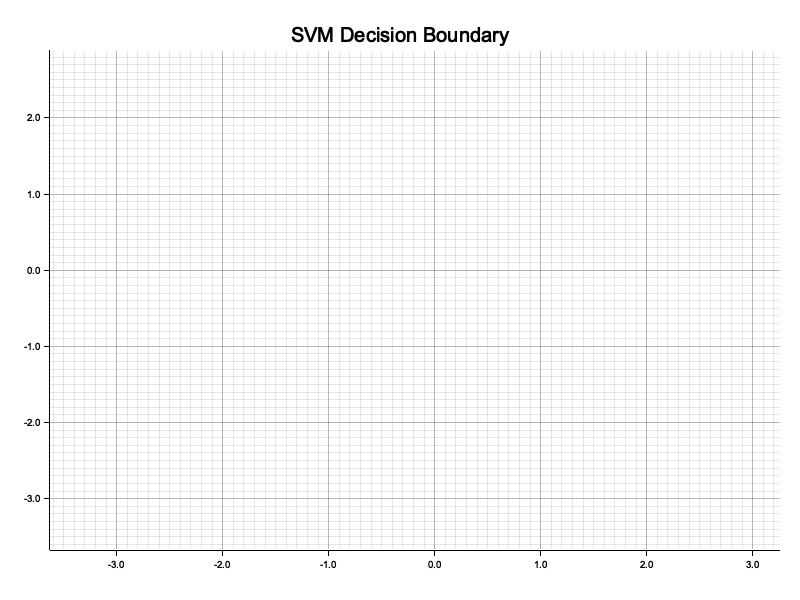
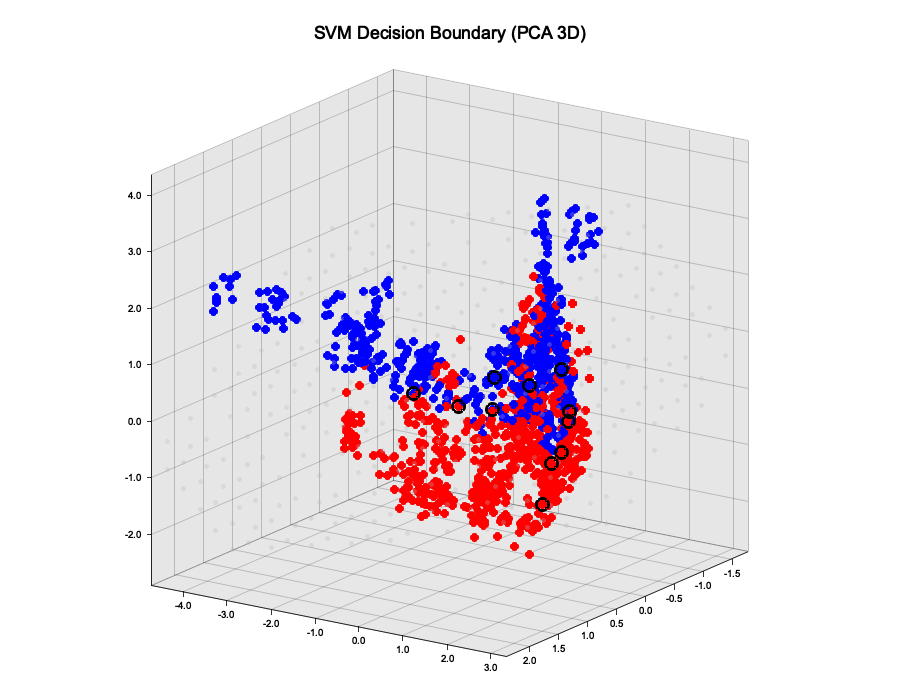
tested it on two datasets and it gave promising results

diff --git a/src/main.rs b/src/main.rs
@@ -56,7 +56,7 @@ fn svm_on_kaggle_dataset_rbf() {
         &kernel::KernelType::RBF,
         "plots/learning_curve_rbf.png",
     );
-    plot_decision_boundary_3d(&svm, &data, &labels, "plots/decision_boundary_rbf");
+    plot_decision_boundary_3d(&svm, &data, &labels, "plots/decision_boundary_rbf.png");
 }
 
 fn svm_on_kaggle_dataset_linear() {
@@ -90,5 +90,5 @@ fn svm_on_kaggle_dataset_linear() {
         &kernel::KernelType::Linear,
         "plots/learning_curve_linear.png",
     );
-    plot_decision_boundary_3d(&svm, &data, &labels, "plots/decision_boundary_linear");
+    plot_decision_boundary_3d(&svm, &data, &labels, "plots/decision_boundary_linear.png");
 }